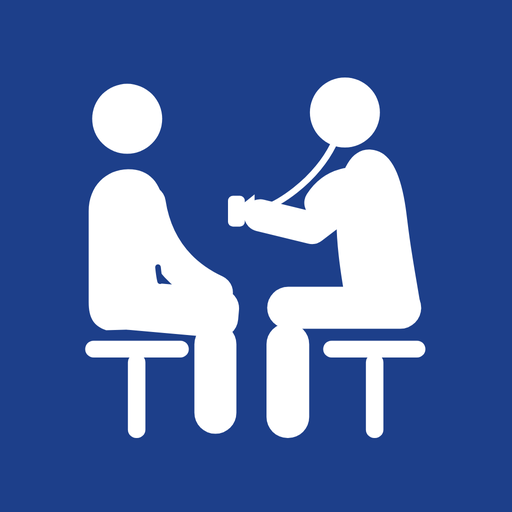
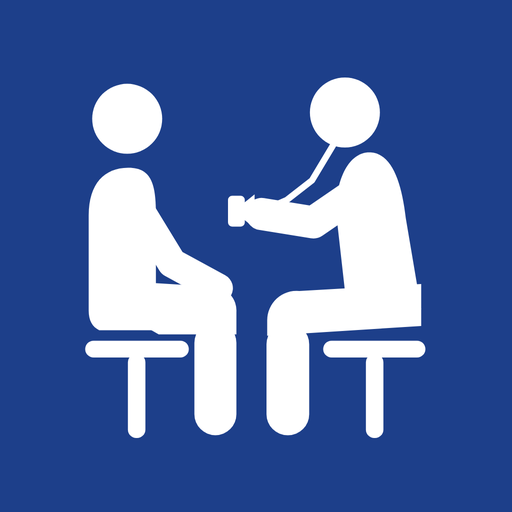
ref: アイコン刷新（診察ピクトグラム）/ sw r24

diff --git a/ref/sw.js b/ref/sw.js
@@ -1,4 +1,4 @@
-const CACHE = 'ref-20261101-r23';
+const CACHE = 'ref-20261101-r24';
 const ASSETS = [
   './',
   './index.html',
